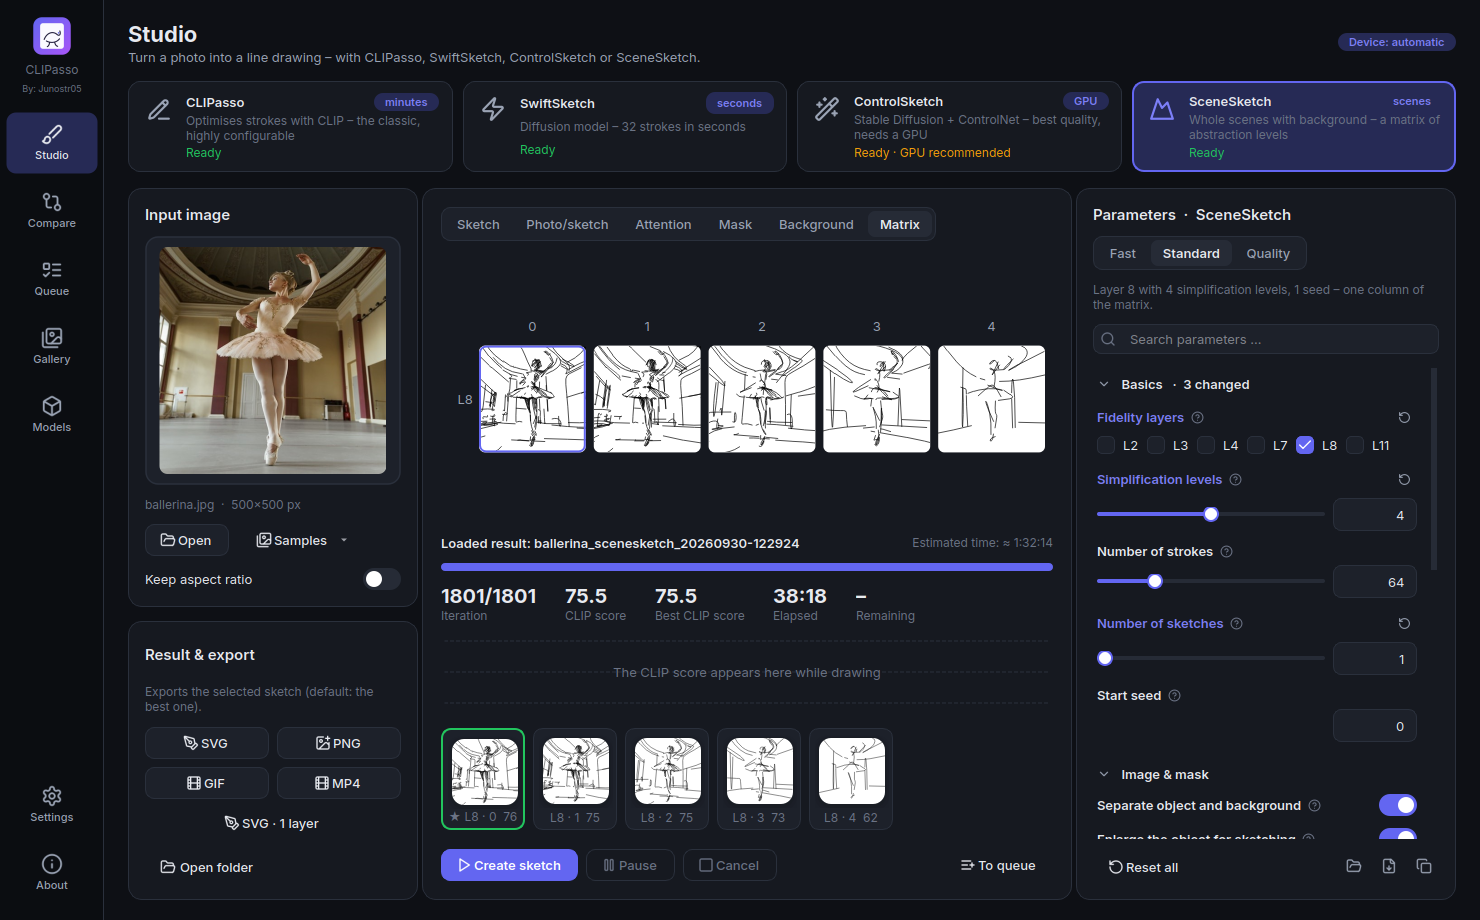
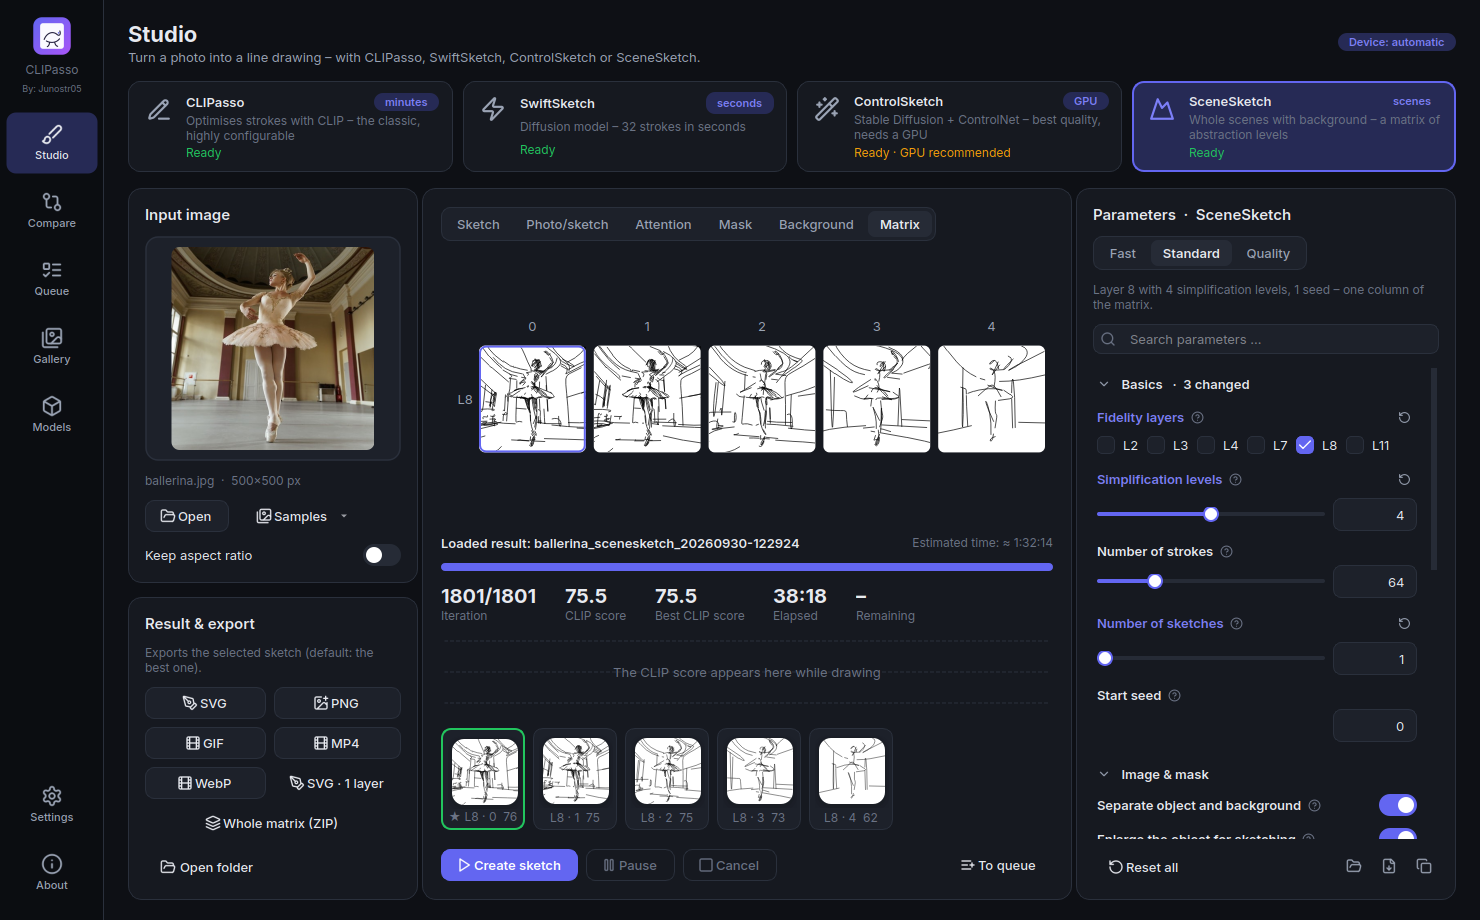
Release 2.2.0
- version 2.2.0, release notes (freeze fix, gallery, export, shortcuts,
  resumable downloads, update notice, crash log)
- README: gallery, export, downloads, shortcuts, update notice and crash
  log in the feature list; screenshots with the 2.2 interface and a
  gallery screenshot

Claude-Session: https://claude.ai/code/session_01S7pgJpBq7v1cwD5D27gajo

Changed region(s): [[0.0932, 0.2739, 0.2797, 0.6391], [0.0932, 0.6696, 0.2486, 0.913], [0.2486, 0.5783, 0.2797, 0.6391]]

diff --git a/clipasso_studio/__init__.py b/clipasso_studio/__init__.py
@@ -1,5 +1,5 @@
 """CLIPasso Studio – desktop app for vector sketching from photos (CLIPasso, SwiftSketch, ControlSketch)."""
 
-__version__ = "2.1.0"
+__version__ = "2.2.0"
 APP_NAME = "CLIPasso Studio"
 APP_ID = "CLIPassoStudio"

diff --git a/packaging/release_notes.md b/packaging/release_notes.md
@@ -1,17 +1,22 @@
-## CLIPasso Studio 2.1 – SceneSketch: whole scenes
+## CLIPasso Studio 2.2 – no more freezes, a better gallery and export
 
-**New: SceneSketch** ([CLIPascene](https://clipascene.github.io/CLIPascene/), ICCV 2023) as the fourth method. It sketches a whole scene with its background: the object in the foreground (U²-Net) and the background (filled in behind the object with LaMa) are sketched separately and combined. The result is a **matrix of sketches**: from precise to loose (fidelity: one column per CLIP layer) and from detailed to sparse (simplicity: strokes are removed step by step).
+**Fixed: the app froze and crashed at the end of an export or a model download.** The file was complete, the progress bar full – and then the app hung and closed. Two bugs in the background work were behind it (the finished work was handed back to the interface from the wrong thread, and cleaning up after one export could crash the next one); both are fixed. The last step is now visible as well: “Encoding the GIF …” / “Checking and preparing …” instead of a full bar that seems stuck, and *Cancel* works during exports and downloads.
 
-- The new **Matrix** view in the studio shows every sketch of the matrix; click one to select it for export, double-click to open it.
-- Presets: *Fast* (one scene sketch), *Standard* (one column with 4 simplification levels), *Quality* (the full 3 × 9 matrix of the paper – hours, even on a GPU).
-- All options of the original scripts are available (fidelity layers, simplification steps, iterations, …), and the command line accepts the original arguments (`--method scenesketch --im_name … --layers 2,8,11`).
-- Two sample scenes from the SceneSketch repository (ballerina, house).
-- The LaMa inpainting model (≈ 200 MB) is downloaded the first time you use SceneSketch.
-- Objects on a plain background are sketched without a (pointless) background sketch.
+**Gallery**
+- Click a result to **continue working on it** in the studio – with its image and all settings. Every job now keeps a copy of its input image, so this also works after the original file was moved or deleted.
+- **Delete** results (to the recycle bin), **Show folder**, **favourites** (★) with a favourites filter, sorting by date or best CLIP score, search by image name and method. Right-click a card for the same actions.
+
+**Export**
+- GIF, MP4 and the new **animated WebP**: set **how long the drawing takes** (and how long the finished sketch stays) – the frame rate adapts.
+- **GIFs about 2× smaller and 3× faster** to create (a small palette made for line drawings).
+- **Animated WebP**: smaller than GIF, with a transparent background if you like.
+- SceneSketch: **export the whole matrix** as one ZIP – every sketch as SVG and PNG plus an overview sheet.
 
 **Also new**
-- **SVG · 1 layer** export: all strokes as one path in a single layer – for plotters, cutting machines (Cricut, Silhouette) and laser software, which otherwise import every stroke as its own layer.
-- The app starts in the language of Windows (German or English) – since 2.0.1.
+- **Keyboard shortcuts**: Ctrl+V pastes an image from the clipboard, Ctrl+O opens one, Ctrl+Enter starts, Ctrl+Shift+Enter adds to the queue, Ctrl+E exports the SVG, Ctrl+1 … 7 switch pages (list on the About page).
+- **Interrupted model downloads continue** where they stopped (also after closing the app); a dropped connection is resumed automatically.
+- **Update notice** when a new version is available (Settings → switch off).
+- **Crash log**: an unexpected error is shown and saved to a log file (Settings → *Open log folder*); after a hard crash the next start tells you where the log is. Please attach it when you report a problem.
 
 | File | For whom? |
 |---|---|
@@ -21,7 +26,7 @@
 
 **Notes**
 - Windows SmartScreen may warn on the first start (“Unknown publisher”) → *More info* → *Run anyway*.
-- CPU times: SwiftSketch ~5 s per sketch; CLIPasso “Fast” 5–15 min; SceneSketch “Fast” ≈ 20 min; ControlSketch several hours (GPU: a few minutes).
+- CPU times: SwiftSketch ~5 s per sketch; CLIPasso “Fast” 5–15 min; SceneSketch “Fast” ≈ 20 min, “Standard” ≈ 2 h; ControlSketch several hours (GPU: a few minutes).
 - Updating: the installer versions install over the old version; downloaded models and settings are kept.
 - Licence: CC BY-NC-SA 4.0 – **non-commercial use only**. The downloaded models have their own licences (see THIRD_PARTY_NOTICES.md).
 - Checksums: `SHA256SUMS-CPU.txt` and `SHA256SUMS-GPU.txt`.

diff --git a/README.md b/README.md
@@ -80,15 +80,18 @@ Pick the method at the top of the studio with one click. Parameters, presets, ti
   - Checked by a test (`tests/test_settings.py`): every original argument has a setting with the same default value.
 - **Live preview** for all methods: you watch the sketch being drawn (for SwiftSketch every denoising step). Plus a photo/sketch slider, the attention map with the stroke start points, the mask, the ControlNet condition image for ControlSketch, a loss or CLIP score curve, the remaining time and thumbnails of all seeds. **Several sketches per image – the best one is picked automatically** (CLIPasso: lowest loss; SwiftSketch and ControlSketch: highest CLIP score).
 - **Presets** (Fast / Standard / Quality) per method, import/export of the settings as JSON, “copy command line”.
-- **Export**: SVG (stroke colour, width, background), **SVG · 1 layer** (all strokes as one path in a single layer – for plotters, cutting machines such as Cricut or Silhouette, and laser software), PNG at any resolution, **GIF/MP4 of the drawing process** – for SwiftSketch, how the strokes emerge from noise. Abstraction series with one click (CLIPasso, ControlSketch); SceneSketch makes its own matrix.
-- **Queue** for many images, also with mixed methods, with pause/cancel, a notification when done and protection against sleep mode. **Gallery** of all results with a method filter.
-- **Models** page grouped by method: download with progress, delete, manual import of the SwiftSketch weights (in case Google Drive hits its daily quota).
-- **Dark/light theme**, **English/German** interface (follows the Windows language, switchable at runtime), and a command-line mode that is compatible with the original arguments of all four methods.
+- **Export**: SVG (stroke colour, width, background), **SVG · 1 layer** (all strokes as one path in a single layer – for plotters, cutting machines such as Cricut or Silhouette, and laser software), PNG at any resolution, **GIF / MP4 / animated WebP of the drawing process** – you set how long the drawing takes and the frame rate follows (for SwiftSketch: how the strokes emerge from noise). SceneSketch: the **whole matrix** as one ZIP (every sketch as SVG and PNG plus an overview sheet). Abstraction series with one click (CLIPasso, ControlSketch).
+- **Queue** for many images, also with mixed methods, with pause/cancel, a notification when done and protection against sleep mode.
+- **Gallery** of all results: click one to continue working on it in the studio – with its image and settings (every job keeps a copy of its input image, so this works even after the original was moved or deleted). Favourites, sorting, search, method filter, “Show folder” and delete (to the recycle bin).
+- **Models** page grouped by method: download with progress, delete, manual import of the SwiftSketch weights (in case Google Drive hits its daily quota). Interrupted downloads continue where they stopped.
+- **Dark/light theme**, **English/German** interface (follows the Windows language, switchable at runtime), keyboard shortcuts (Ctrl+V pastes an image, Ctrl+Enter starts), and a command-line mode that is compatible with the original arguments of all four methods.
+- **Update notice** when a new version is out (can be switched off) and a **crash log**: unexpected errors are shown and saved in a log file that you can attach to a bug report.
 
 <p>
-  <img src="docs/screenshots/studio_scenesketch_dark_en.png" width="32.5%" alt="SceneSketch's matrix view in the studio">
-  <img src="docs/screenshots/studio_controlsketch_dark_en.png" width="32.5%" alt="ControlSketch in the studio">
-  <img src="docs/screenshots/studio_light_en.png" width="32.5%" alt="Light theme">
+  <img src="docs/screenshots/studio_scenesketch_dark_en.png" width="49%" alt="SceneSketch's matrix view in the studio">
+  <img src="docs/screenshots/studio_controlsketch_dark_en.png" width="49%" alt="ControlSketch in the studio">
+  <img src="docs/screenshots/gallery_dark_en.png" width="49%" alt="Gallery with favourites and card actions">
+  <img src="docs/screenshots/studio_light_en.png" width="49%" alt="Light theme">
 </p>
 
 ## Usage
